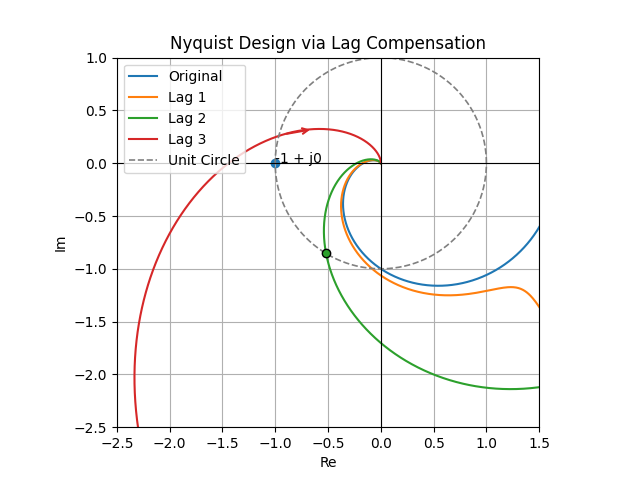
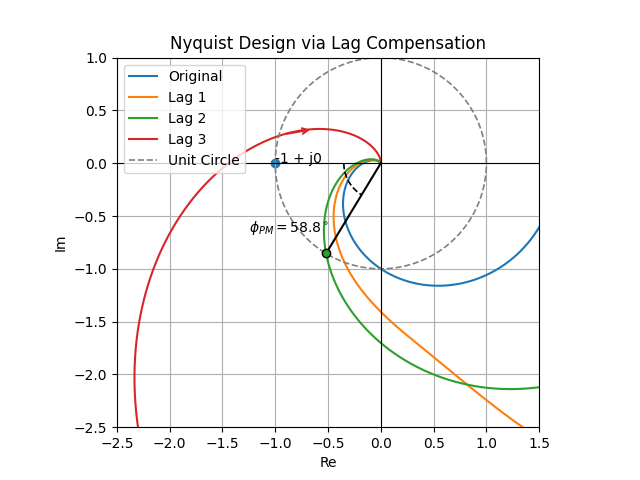
Added phase margin label to the nyquist design plot.

diff --git a/python/plotting/nyquist_lag_design_plot.py b/python/plotting/nyquist_lag_design_plot.py
@@ -1,6 +1,7 @@
 import csv
 import matplotlib.pyplot as plt
 import math
+import numpy as np
 
 def load_lag_design_data(filename):
   # Create all of the required lists to hold all the data.
@@ -109,6 +110,29 @@ def add_contour_arrow(real_values, imaginary_values, start_idx, end_idx, color):
     )
   )
 
+def plot_phase_margin_arc(gc_real, gc_imaginary):
+  gc_phase = math.atan2(gc_imaginary, gc_real)
+
+  reference_phase = -math.pi
+  arc_radius = 0.35
+
+  theta = np.linspace(
+    reference_phase,
+    gc_phase,
+    100
+  )
+
+  arc_real = arc_radius * np.cos(theta)
+  arc_imaginary = arc_radius * np.sin(theta)
+
+  plt.plot(
+    arc_real,
+    arc_imaginary,
+    color="black",
+    linestyle="--",
+    linewidth=1.2
+  )
+
 def plot_lag_design(frequencies, original_real, original_imaginary, lag_1_real, lag_1_imaginary, lag_2_real, lag_2_imaginary, lag_3_real, lag_3_imaginary):
   # Create a brand new lag design figure
   plt.figure()
@@ -147,10 +171,34 @@ def plot_lag_design(frequencies, original_real, original_imaginary, lag_1_real, 
     lag_2_imaginary
   )
 
-  # Find the real, imaginary, and frequency values
+  # Find the real, imaginary, and frequency values at the gain crossover
   gc_real = lag_2_real[lag_2_gc_idx]
   gc_imaginary = lag_2_imaginary[lag_2_gc_idx]
   gc_frequency = frequencies[lag_2_gc_idx]
+
+  # Calculate the actual phase margin
+  gc_phase = math.degrees(
+    math.atan2(gc_imaginary, gc_real)
+  )
+  phase_margin = 180.0 + gc_phase
+
+  # Find the middle of the PM arc
+  pm_mid_angle = math.radians(
+    (-180.0 + gc_phase) / 2.0
+  )
+
+  # Find a radius for the PM label
+  label_radius = 0.75
+
+  label_x = label_radius * math.cos(pm_mid_angle)
+  label_y = label_radius * math.sin(pm_mid_angle)
+
+  # Add the label
+  plt.text(
+    -1.25,
+    -0.65,
+    rf"$\phi_{{PM}}={phase_margin:.1f}^\circ$"
+  )
 
   # Visualize the crossover
   plt.scatter(
@@ -200,6 +248,20 @@ def plot_lag_design(frequencies, original_real, original_imaginary, lag_1_real, 
     lag_3_start_idx,
     lag_3_end_idx,
     "tab:red"
+  )
+
+  # Draw a radius from the origin to the Lag 2 gain crossover point
+  plt.plot(
+    [0.0, gc_real],
+    [0.0, gc_imaginary],
+    color="black",
+    linewidth=1.5
+  )
+
+  # Draw the phase margin arc
+  plot_phase_margin_arc(
+    gc_real,
+    gc_imaginary
   )
 
   # Plot the Real and imaginary axeses

diff --git a/cpp/src/main.cc b/cpp/src/main.cc
@@ -817,7 +817,7 @@ void ExportLagNyquistDesign() {
   // Define the lag compensators
   double compensator_gain = 1.0;
 
-  double lag_1_zero = 0.1, lag_1_pole = 0.02;
+  double lag_1_zero = 0.4, lag_1_pole = 0.1;
   double lag_2_zero = 1.0, lag_2_pole = 0.5;
   double lag_3_zero = 10.0, lag_3_pole = 2.0;
 
